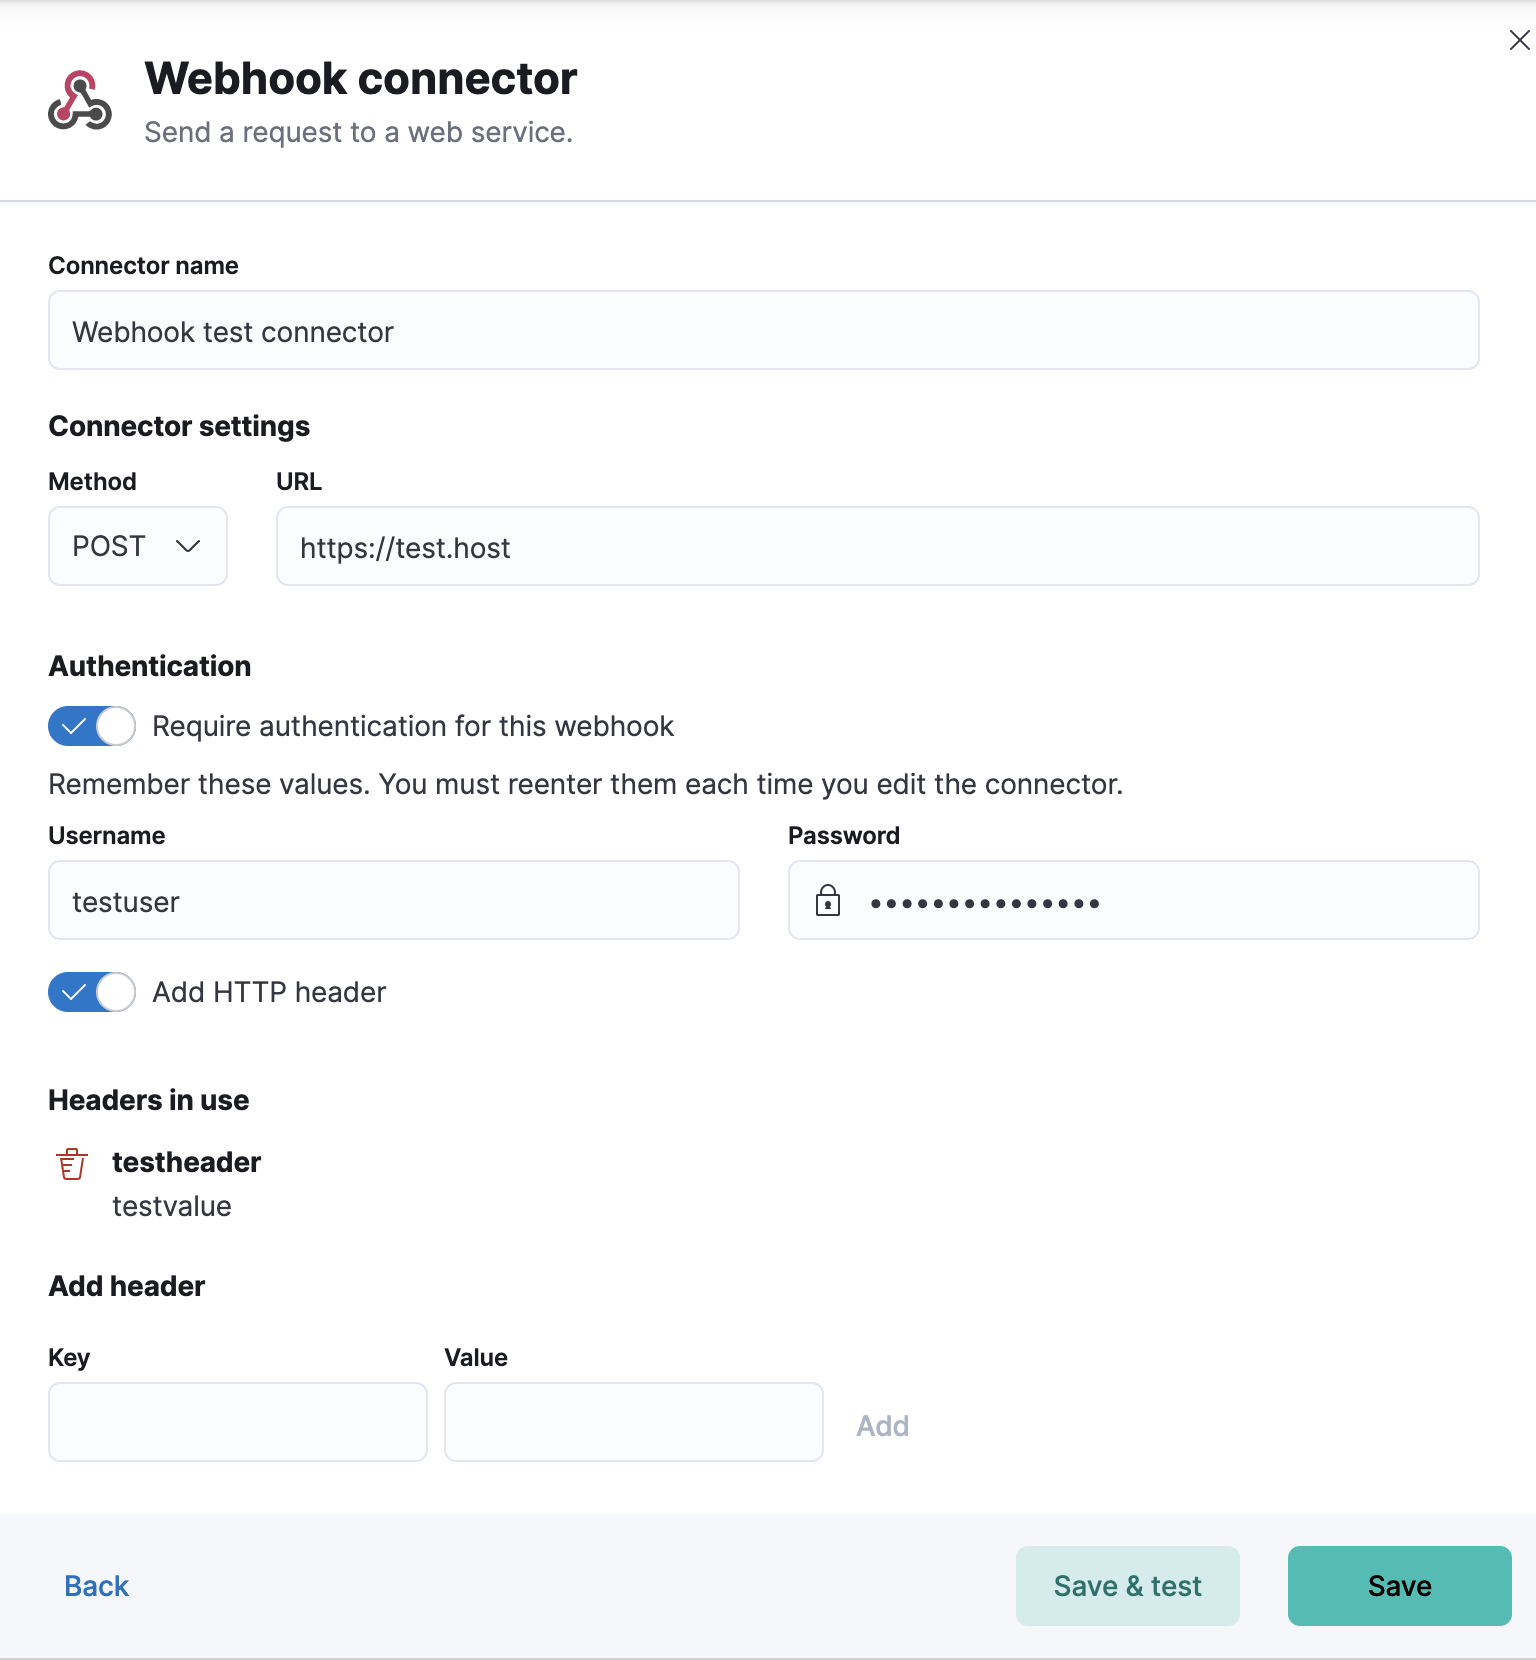
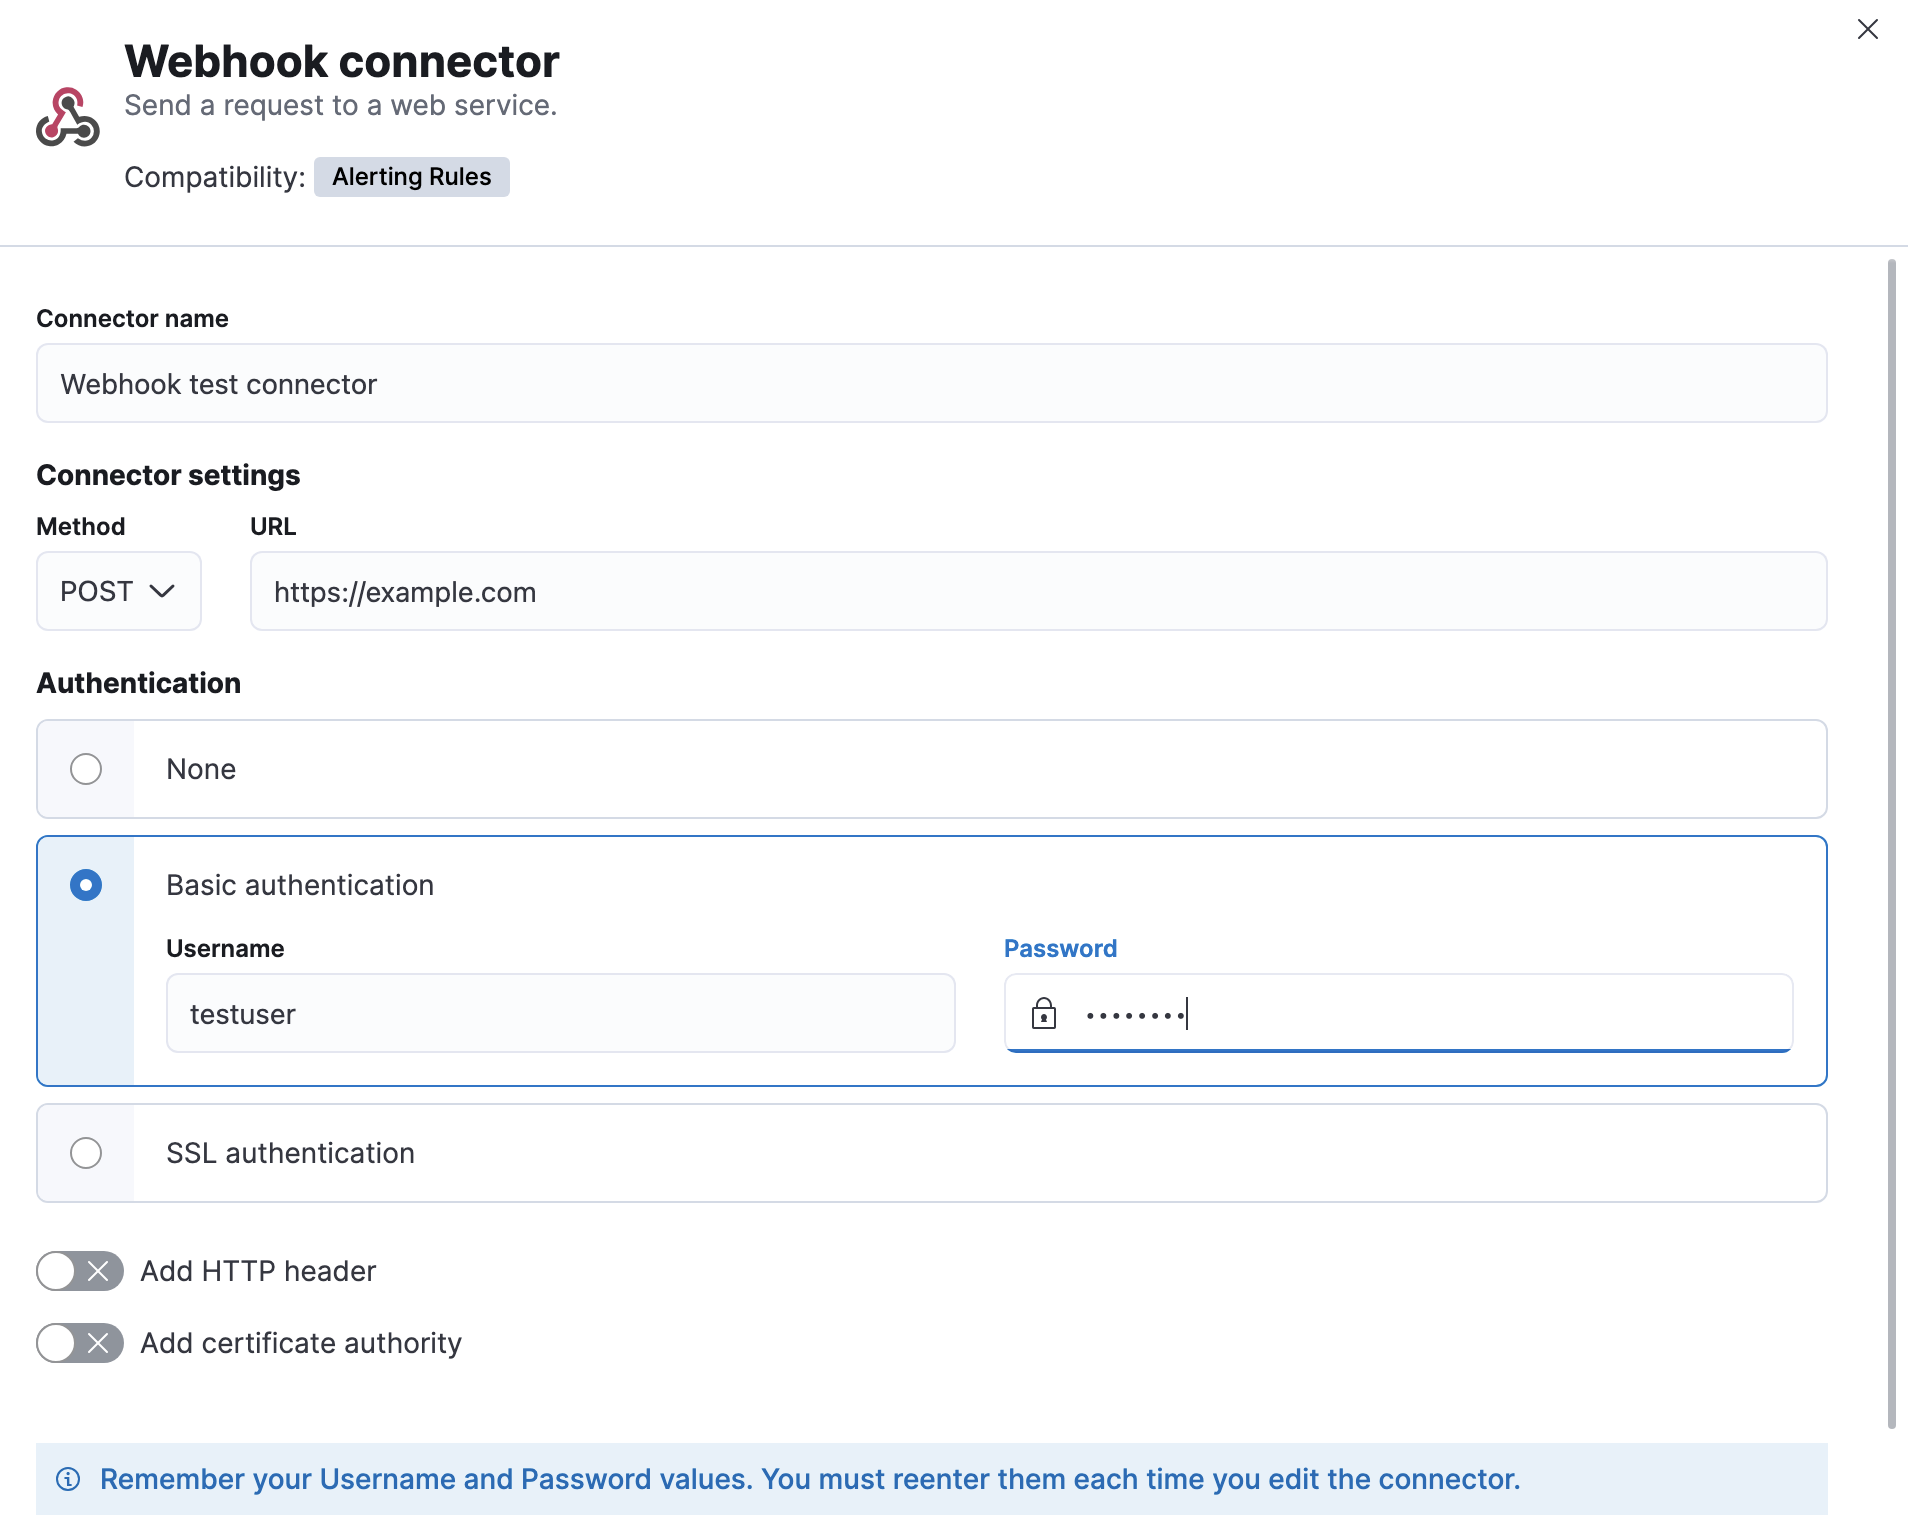
[DOCS] Automate webhook connector screenshots (#163893)

diff --git a/x-pack/test/screenshot_creation/apps/response_ops_docs/stack_connectors/connector_types.ts b/x-pack/test/screenshot_creation/apps/response_ops_docs/stack_connectors/connector_types.ts
@@ -23,6 +23,10 @@ export default function ({ getService, getPageObjects }: FtrProviderContext) {
     `"rule_name": "{{rule.name}}",\n` +
     `"alert_id": "{{alert.id}}",\n` +
     `"context_message": "{{context.message}}"\n`;
+  const webhookJson =
+    `{\n` +
+    `"short_description": "{{context.rule.name}}",\n` +
+    `"description": "{{context.rule.description}}"`;
   const emailConnectorName = 'my-email-connector';
 
   describe('connector types', function () {
@@ -150,6 +154,22 @@ export default function ({ getService, getPageObjects }: FtrProviderContext) {
         1400,
         1024
       );
+    });
+
+    it('webhook connector screenshots', async () => {
+      await pageObjects.common.navigateToApp('connectors');
+      await pageObjects.header.waitUntilLoadingHasFinished();
+      await actions.common.openNewConnectorForm('webhook');
+      await testSubjects.setValue('nameInput', 'Webhook test connector');
+      await testSubjects.setValue('webhookUrlText', 'https://example.com');
+      await testSubjects.setValue('webhookUserInput', 'testuser');
+      await testSubjects.setValue('webhookPasswordInput', 'password');
+      await commonScreenshots.takeScreenshot('webhook-connector', screenshotDirectories);
+      const saveTestButton = await testSubjects.find('create-connector-flyout-save-test-btn');
+      await saveTestButton.click();
+      await testSubjects.setValue('actionJsonEditor', webhookJson);
+      await commonScreenshots.takeScreenshot('webhook-params-test', screenshotDirectories);
+      await testSubjects.click('euiFlyoutCloseButton');
     });
   });
 }
